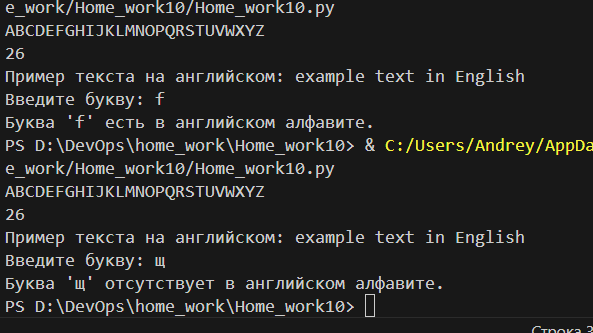
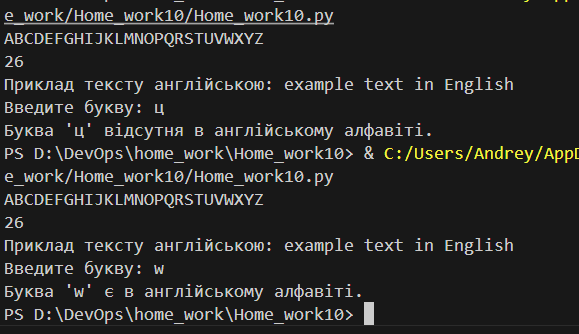
HW10

Changed region(s): [[0.0, 0.0, 1.0, 0.991], [0.8705, 0.961, 1.0, 1.0]]

diff --git a/Home_work10/Home_work10.py b/Home_work10/Home_work10.py
@@ -35,6 +35,6 @@ print("Приклад тексту англійською:", EngAlphabet.example
 
 user_input = input("Введите букву: ")  # Запрос буквы у пользователя
 if engish_alpha.is_en_letter(user_input):
-    print(f"Буква '{user_input}' є в англійському абетці.")
+    print(f"Буква '{user_input}' є в англійському алфавіті.")
 else:
     print(f"Буква '{user_input}' відсутня в англійському алфавіті.")
